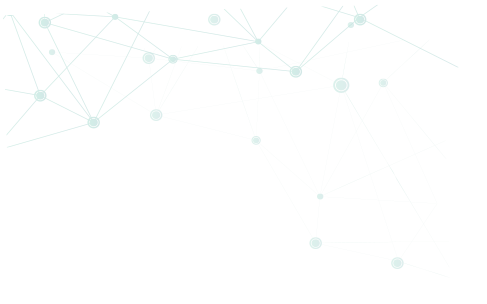
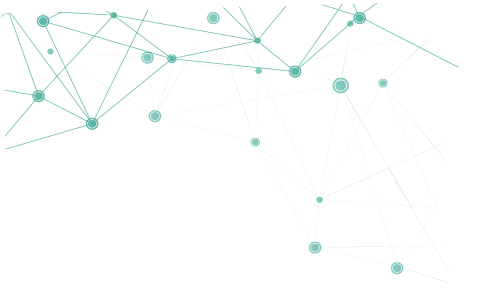
refactor: improve test categorization, sorting logic, and layout handling in ReportCard component

diff --git a/components/dashboard/lab/Home/ReportCard.tsx b/components/dashboard/lab/Home/ReportCard.tsx
@@ -102,13 +102,21 @@ export default function ReportCard({ report, panels, panelPerPage = false }: Rep
 
             {(() => {
                 const FIRST_PAGE_LIMIT = 20;
-                const SUBSEQUENT_PAGE_LIMIT = 24;
+                const SUBSEQUENT_PAGE_LIMIT = 20;
 
                 const allRows: any[] = [];
                 const testMap = new Map<string, any>();
                 (report.test || []).forEach((t: any) => {
                     testMap.set(t.name?._id?.toString() || "", t);
                 });
+
+                const normalizeHeading = (h: string) => {
+                    let text = h.toUpperCase().trim();
+                    if (text.includes("HEMATOLOGY") || text.includes("HAEMATOLOGY") || text.includes("HEAMATOLOGY")) {
+                        return "HAEMATOLOGY";
+                    }
+                    return text;
+                };
 
                 const processedTestIds = new Set<string>();
 
@@ -147,17 +155,37 @@ export default function ReportCard({ report, panels, panelPerPage = false }: Rep
                         orderedIds = panelTests.map((t: any) => t.name?._id?.toString() || "");
                     }
 
+                    const testSubheadings = panelConfig?.testSubheadings || {};
+                    const subheadingsOrder = panelConfig?.subheadings || [];
+
                     orderedIds.sort((a, b) => {
+                        const subA = testSubheadings[a];
+                        const subB = testSubheadings[b];
+
+                        if (subA !== subB) {
+                            const indexA = subA ? subheadingsOrder.indexOf(subA) : -1;
+                            const indexB = subB ? subheadingsOrder.indexOf(subB) : -1;
+
+                            if (indexA !== -1 && indexB !== -1) return indexA - indexB;
+                            if (indexA !== -1) return -1;
+                            if (indexB !== -1) return 1;
+
+                            if (subA && subB) return subA.localeCompare(subB);
+                        }
+
                         const tA = testMap.get(a)?.name?.name?.toUpperCase() || "";
                         const tB = testMap.get(b)?.name?.name?.toUpperCase() || "";
-                        const aPriority = tA.includes("SUGAR") || tA.includes("URIC") || tA.includes("URINE");
-                        const bPriority = tB.includes("SUGAR") || tB.includes("URIC") || tB.includes("URINE");
-                        if (aPriority && !bPriority) return -1;
-                        if (!aPriority && bPriority) return 1;
+                        const getPriority = (testName: string) => {
+                            if (testName.includes("SUGAR")) return 1;
+                            if (testName.includes("URINE")) return 2;
+                            if (testName.includes("URIC")) return 3;
+                            return 4;
+                        };
+                        const pA = getPriority(tA);
+                        const pB = getPriority(tB);
+                        if (pA !== pB) return pA - pB;
                         return 0;
                     });
-
-                    const testSubheadings = panelConfig?.testSubheadings || {};
                     let currentSubheadingState: string | null = null;
                     let pendingSubheading: string | null = null;
 
@@ -211,27 +239,65 @@ export default function ReportCard({ report, panels, panelPerPage = false }: Rep
                 });
 
                 if (remainingTests.length > 0) {
+                    // Sort remaining tests by priority (sugar, urine, uric)
                     remainingTests.sort((a, b) => {
                         const tA = a.name?.name?.toUpperCase() || "";
                         const tB = b.name?.name?.toUpperCase() || "";
-                        const aPriority = tA.includes("SUGAR") || tA.includes("URIC") || tA.includes("URINE");
-                        const bPriority = tB.includes("SUGAR") || tB.includes("URIC") || tB.includes("URINE");
-                        if (aPriority && !bPriority) return -1;
-                        if (!aPriority && bPriority) return 1;
+                        const getPriority = (testName: string) => {
+                            if (testName.includes("SUGAR")) return 1;
+                            if (testName.includes("URINE")) return 2;
+                            if (testName.includes("URIC")) return 3;
+                            return 4;
+                        };
+                        const pA = getPriority(tA);
+                        const pB = getPriority(tB);
+                        if (pA !== pB) return pA - pB;
                         return 0;
                     });
 
-                    const panelId = "BIOCHEMISTRY";
-                    allRows.push({
-                        type: "PANEL",
-                        name: panelId,
-                        activePanel: panelId,
-                        mainHeading: "BIOCHEMISTRY"
+                    // Separate HEAMATOLOGY tests from other biochemistry tests
+                    const heamTests = remainingTests.filter(t => {
+                        const cat = (t.name?.category || "").toString().toUpperCase();
+                        return cat.includes("HEAMATOLOGY") || cat.includes("HEMATOLOGY") || cat.includes("HAEMATOLOGY") || cat.includes("CBC");
                     });
-                    remainingTests.forEach(t => {
-                        allRows.push({ type: "TEST", ...t, activePanel: panelId });
+                    const otherTests = remainingTests.filter(t => {
+                        const cat = (t.name?.category || "").toString().toUpperCase();
+                        return !(cat.includes("HEAMATOLOGY") || cat.includes("HEMATOLOGY") || cat.includes("HAEMATOLOGY") || cat.includes("CBC"));
                     });
+
+                    // Add HEAMATOLOGY panel if any tests belong to this category
+                    if (heamTests.length > 0) {
+                        const heamPanelId = "HAEMATOLOGY";
+                        allRows.push({
+                            type: "PANEL",
+                            name: heamPanelId,
+                            activePanel: heamPanelId,
+                            mainHeading: "HAEMATOLOGY"
+                        });
+                        heamTests.forEach(t => {
+                            allRows.push({ type: "TEST", ...t, activePanel: heamPanelId });
+                        });
+                    }
+
+                    // Add BIOCHEMISTRY panel for the remaining tests
+                    if (otherTests.length > 0) {
+                        const panelId = "BIOCHEMISTRY";
+                        // Add BIOCHEMISTRY panel only if not already added
+                        const bioExists = allRows.some(row => row.type === "PANEL" && (row.name === panelId || (row.mainHeading && row.mainHeading.toUpperCase() === "BIOCHEMISTRY")));
+                        if (!bioExists) {
+                            allRows.push({
+                                type: "PANEL",
+                                name: panelId,
+                                activePanel: panelId,
+                                mainHeading: "BIOCHEMISTRY"
+                            });
+                        }
+                        otherTests.forEach(t => {
+                            allRows.push({ type: "TEST", ...t, activePanel: panelId });
+                        });
+                    }
                 }
+                // Duplicate remainingTests block removed
 
                 // Group by activePanel first to maintain grouping
                 const panelGroups: Record<string, any[]> = {};
@@ -253,22 +319,52 @@ export default function ReportCard({ report, panels, panelPerPage = false }: Rep
                     return heading.includes("HEMATOLOGY") || heading.includes("HAEMATOLOGY") || heading.includes("HEAMATOLOGY") || heading.includes("CBC");
                 };
                 const getBiochemCheck = (name: string) => {
-                    const heading = (name || "").toUpperCase();
-                    return heading === "BIOCHEMISTRY";
+                    const cfg = panels?.find((pItem: any) => pItem.name === name);
+                    const heading = (cfg?.mainHeading || name || "").toUpperCase();
+                    return heading.includes("BIOCHEMISTRY");
                 };
                 const getCategoryCheck = (name: string) => {
                     const cfg = panels?.find((pItem: any) => pItem.name === name);
                     return cfg?.subheadings && cfg.subheadings.length > 0;
+                };
+                const getUrineCheck = (name: string) => {
+                    const cfg = panels?.find((pItem: any) => pItem.name === name);
+                    const heading = (cfg?.mainHeading || name || "").toUpperCase();
+                    return heading.includes("URINE");
                 };
 
                 panelOrder.sort((a, b) => {
                     const getPriority = (p: string) => {
                         if (getHaemCheck(p)) return 0;
                         if (getBiochemCheck(p)) return 1;
+                        if (getUrineCheck(p)) return 4;
                         if (getCategoryCheck(p)) return 2;
                         return 3;
                     };
-                    return getPriority(a) - getPriority(b);
+                    const pA = getPriority(a);
+                    const pB = getPriority(b);
+                    if (pA !== pB) return pA - pB;
+
+                    const getPanelInternalPriority = (p: string) => {
+                        const rows = panelGroups[p] || [];
+                        let hasSugar = false;
+                        let hasUrine = false;
+                        let hasUric = false;
+                        for (const r of rows) {
+                            if (r.type === "TEST") {
+                                const tName = (r.name?.name || "").toUpperCase();
+                                if (tName.includes("SUGAR")) hasSugar = true;
+                                if (tName.includes("URINE")) hasUrine = true;
+                                if (tName.includes("URIC")) hasUric = true;
+                            }
+                        }
+                        if (hasSugar) return 1;
+                        if (hasUrine) return 2;
+                        if (hasUric) return 3;
+                        return 4;
+                    };
+
+                    return getPanelInternalPriority(a) - getPanelInternalPriority(b);
                 });
 
                 // Flatten panel groups to remove duplicate PANEL rows (e.g. 2 Biochemistry)
@@ -278,9 +374,10 @@ export default function ReportCard({ report, panels, panelPerPage = false }: Rep
                 panelOrder.forEach((p) => {
                     panelGroups[p].forEach(row => {
                         if (row.type === "PANEL") {
-                            const heading = row.mainHeading || row.name;
+                            const heading = normalizeHeading(row.mainHeading || row.name || "");
                             if (seenPanels.has(heading)) return;
                             seenPanels.add(heading);
+                            row.mainHeading = heading;
                         }
                         finalRows.push(row);
                     });
@@ -330,13 +427,6 @@ export default function ReportCard({ report, panels, panelPerPage = false }: Rep
 
                 if (pages.length === 0) pages.push([]);
 
-                // Overlay Watermark Background
-                const watermark = (
-                    <div className="absolute inset-0 pointer-events-none flex items-center justify-center opacity-[0.08] z-0">
-                        <img src={configuration().logo} alt="Watermark" className="w-[15cm] object-contain grayscale" />
-                    </div>
-                );
-
                 return pages.map((pageRows, pageIdx) => {
                     const isFirstPage = pageIdx === 0;
                     const isLastPage = pageIdx === pages.length - 1;
@@ -351,11 +441,10 @@ export default function ReportCard({ report, panels, panelPerPage = false }: Rep
 
                     return (
                         <div key={pageIdx} className={`a4-page shadow-none bg-white ${isLastPage ? 'print-page-last' : 'print-page-break'} flex flex-col relative`}>
-                            {watermark}
                             <div className="flex-1 flex flex-col z-10 relative">
                                 {/* Header Section */}
-                                <div className="pt-6 px-10 pb-4 relative z-0">
-                                    <img src="/report-corner-icon.png" alt="Corner Icon" className="absolute top-0 right-0 w-1/2 object-contain object-right-top opacity-30 pointer-events-none mix-blend-multiply z-0" />
+                                <img src="/report-corner-icon.png" alt="Corner Icon" className="absolute top-0 right-0 w-1/2 object-contain object-right-top opacity-30 pointer-events-none mix-blend-multiply z-0" />
+                                <div className="py-3 px-5 relative z-0">
                                     <div className="flex justify-between items-start relative z-10">
                                         <div className="flex gap-4 items-center">
                                             <div className="w-[110px] h-[110px] rounded-full border border-teal-100 flex items-center justify-center bg-white shrink-0 overflow-hidden">
@@ -367,7 +456,7 @@ export default function ReportCard({ report, panels, panelPerPage = false }: Rep
                                                 <div className="flex items-center gap-6 mt-1 text-slate-500">
                                                     <div className="flex items-center gap-2">
                                                         <svg width="14" height="14" viewBox="0 0 24 24" fill="currentColor" stroke="none" className="text-[#89b9c4]"><path d="M20 10.999h2C22 5.869 18.127 2 12.99 2v2C17.052 4 20 6.943 20 10.999z" /><path d="M13 8c2.103 0 3 .897 3 3h2c0-3.225-1.775-5-5-5v2zm3.422 5.443a1.001 1.001 0 0 0-1.391.043l-2.393 2.461c-.576-.11-1.734-.471-2.926-1.66-1.192-1.193-1.553-2.354-1.66-2.926l2.459-2.394a1 1 0 0 0 .043-1.391L6.859 3.513a1 1 0 0 0-1.391-.087l-2.17 1.861a1 1 0 0 0-.29.649c-.015.25-.301 6.172 4.291 10.766C11.305 20.707 16.323 21 17.705 21c.202 0 .326-.006.359-.008a.992.992 0 0 0 .648-.291l1.86-2.171a1 1 0 0 0-.086-1.391l-4.064-3.696z" /></svg>
-                                                        <span className="text-[14px] font-medium text-slate-600">+91 {configuration().hospitalPhone}</span>
+                                                        <span className="text-[14px] font-medium text-slate-600">+91{configuration().hospitalPhone}</span>
                                                     </div>
                                                     <div className="flex items-center gap-2">
                                                         <svg width="14" height="14" viewBox="0 0 24 24" fill="currentColor" stroke="none" className="text-[#89b9c4]">
@@ -379,14 +468,14 @@ export default function ReportCard({ report, panels, panelPerPage = false }: Rep
                                             </div>
                                         </div>
                                         <div className="flex flex-col items-end gap-1 mt-2">
-                                            <h2 className="text-[32px] font-bold text-slate-800 leading-none">LAB REPORT</h2>
+                                            <h2 className="text-[24px] font-bold text-slate-800 leading-none">LAB REPORT</h2>
                                             <p className="text-[16px] text-slate-600 font-medium">Report No : {String(report.mrn || "0056").padStart(4, "0")}</p>
                                         </div>
                                     </div>
                                 </div>
 
                                 {/* Patient Info Banner */}
-                                <div className="bg-[#d9e9e8] w-full px-10 py-5 flex justify-between">
+                                <div className="bg-[#d9e9e8] w-full px-5 py-2.5 flex justify-between">
                                     <div className="flex flex-col space-y-2 text-[15px] text-slate-800">
                                         <div className="flex items-center"><span className="w-28 text-slate-700">Patient Name</span><span className="w-4">:</span><span className="font-semibold">{patient?.name || "Rashid"}</span></div>
                                         <div className="flex items-center"><span className="w-28 text-slate-700">Age/Sex</span><span className="w-4">:</span><span className="font-semibold">{patient?.dateOfBirth ? `${fAgeString(patient.dateOfBirth)}` : "26Y 3M"} / {patient?.gender || "Male"}</span></div>
@@ -400,9 +489,11 @@ export default function ReportCard({ report, panels, panelPerPage = false }: Rep
                                 </div>
 
                                 {/* Results Table Section */}
-                                <div className="mt-4 px-10">
-
-                                    <div className="flex w-full gap-4 relative">
+                                <div className="mt-4 px-10 flex-1 relative">
+                                    <div className="absolute inset-0 pointer-events-none flex items-center justify-center opacity-[0.08] z-0">
+                                        <img src={configuration().logo} alt="Watermark" className="w-[15cm] object-contain grayscale" />
+                                    </div>
+                                    <div className="flex w-full gap-4 relative z-10">
                                         <div className={`${showHistograms ? 'w-[65%]' : 'w-full'} flex flex-col gap-6`}>
                                             {(() => {
                                                 const panelGroupsOnPage: { heading: string, rows: any[] }[] = [];
@@ -411,21 +502,26 @@ export default function ReportCard({ report, panels, panelPerPage = false }: Rep
 
                                                 pageRows.forEach((row) => {
                                                     if (row.type === "PANEL") {
-                                                        if (currentGroup.length > 0 || currentHeading !== "") {
-                                                            panelGroupsOnPage.push({ heading: currentHeading, rows: currentGroup });
+                                                        const newHeading = normalizeHeading(row.mainHeading || row.name || "");
+                                                        if (currentHeading !== "" && newHeading && normalizeHeading(currentHeading) === newHeading) {
+                                                            // Same heading, skip creating a new table
+                                                        } else {
+                                                            if (currentGroup.length > 0 || currentHeading !== "") {
+                                                                panelGroupsOnPage.push({ heading: normalizeHeading(currentHeading), rows: currentGroup });
+                                                            }
+                                                            currentHeading = newHeading;
+                                                            currentGroup = [];
                                                         }
-                                                        currentHeading = row.mainHeading || row.name;
-                                                        currentGroup = [];
                                                     } else {
                                                         if (currentHeading === "" && currentGroup.length === 0) {
                                                             const pConfig = panels?.find((p: any) => p.name === row.activePanel);
-                                                            currentHeading = pConfig?.mainHeading || row.activePanel || "";
+                                                            currentHeading = normalizeHeading(pConfig?.mainHeading || row.activePanel || "");
                                                         }
                                                         currentGroup.push(row);
                                                     }
                                                 });
                                                 if (currentGroup.length > 0 || currentHeading !== "") {
-                                                    panelGroupsOnPage.push({ heading: currentHeading, rows: currentGroup });
+                                                    panelGroupsOnPage.push({ heading: normalizeHeading(currentHeading), rows: currentGroup });
                                                 }
 
                                                 return panelGroupsOnPage.map((pg, pgIdx) => (
@@ -560,7 +656,7 @@ export default function ReportCard({ report, panels, panelPerPage = false }: Rep
 
                                 {/* Footer Section */}
                                 <div className="w-full mt-auto pt-8">
-                                    {isLastPage && (
+                                    {(
                                         <>
                                             {report.note && (
                                                 <div className="w-full px-10 pb-4 text-left">
@@ -572,7 +668,7 @@ export default function ReportCard({ report, panels, panelPerPage = false }: Rep
                                                     </div>
                                                 </div>
                                             )}
-                                            <div className="px-10 pb-6 w-full flex justify-between items-end mt-4">
+                                            <div className="px-5 pb-1 w-full flex justify-between items-start">
                                                 <div className="text-center w-48">
                                                     <p className="font-bold text-slate-800 text-[14px]">LAB IN-CHARGE</p>
                                                     <p className="text-[12px] text-slate-600 font-medium uppercase mt-1">{inChargeTechnician?.name || "LABORATORY"}</p>
@@ -586,15 +682,18 @@ export default function ReportCard({ report, panels, panelPerPage = false }: Rep
                                     )}
 
                                     {/* Bottom Banner */}
-                                    <div className="bg-[#b3d4d9] w-full px-10 py-4 flex justify-between items-center text-slate-800 footer">
+                                    <div className="bg-[#b3d4d9] w-full px-10 py-2 flex justify-between items-center text-slate-800 footer">
                                         <div className="text-[13px]">
-                                            <span className="font-medium">OP Working Hours :</span><br />
-                                            <span className="font-bold text-[14px]">3.00 pm to 8 pm</span>
+                                            <span className="font-medium">OP Time :</span><br />
+                                            <span className="font-bold text-[14px]">Monday-Sunday 3:00 PM to 8:00 PM</span>
                                         </div>
                                         <div className="text-[13px] text-right">
                                             <span className="font-medium">Lab Working Hours :</span><br />
-                                            <span className="font-bold text-[14px]">6.30 am To 8.00 pm <br /> Sunday 6.30 am To 12.00 pm</span>
+                                            <span className="font-bold text-[14px]">6:30 AM to 8:00 PM <br /> Sunday 6:30 AM to 12:00 PM</span>
                                         </div>
+                                        {/* <div className="text-[13px]">
+                                            <span className="font-medium">Page {pageIdx + 1} of {pages.length}</span>
+                                        </div> */}
                                     </div>
                                 </div>
                             </div>